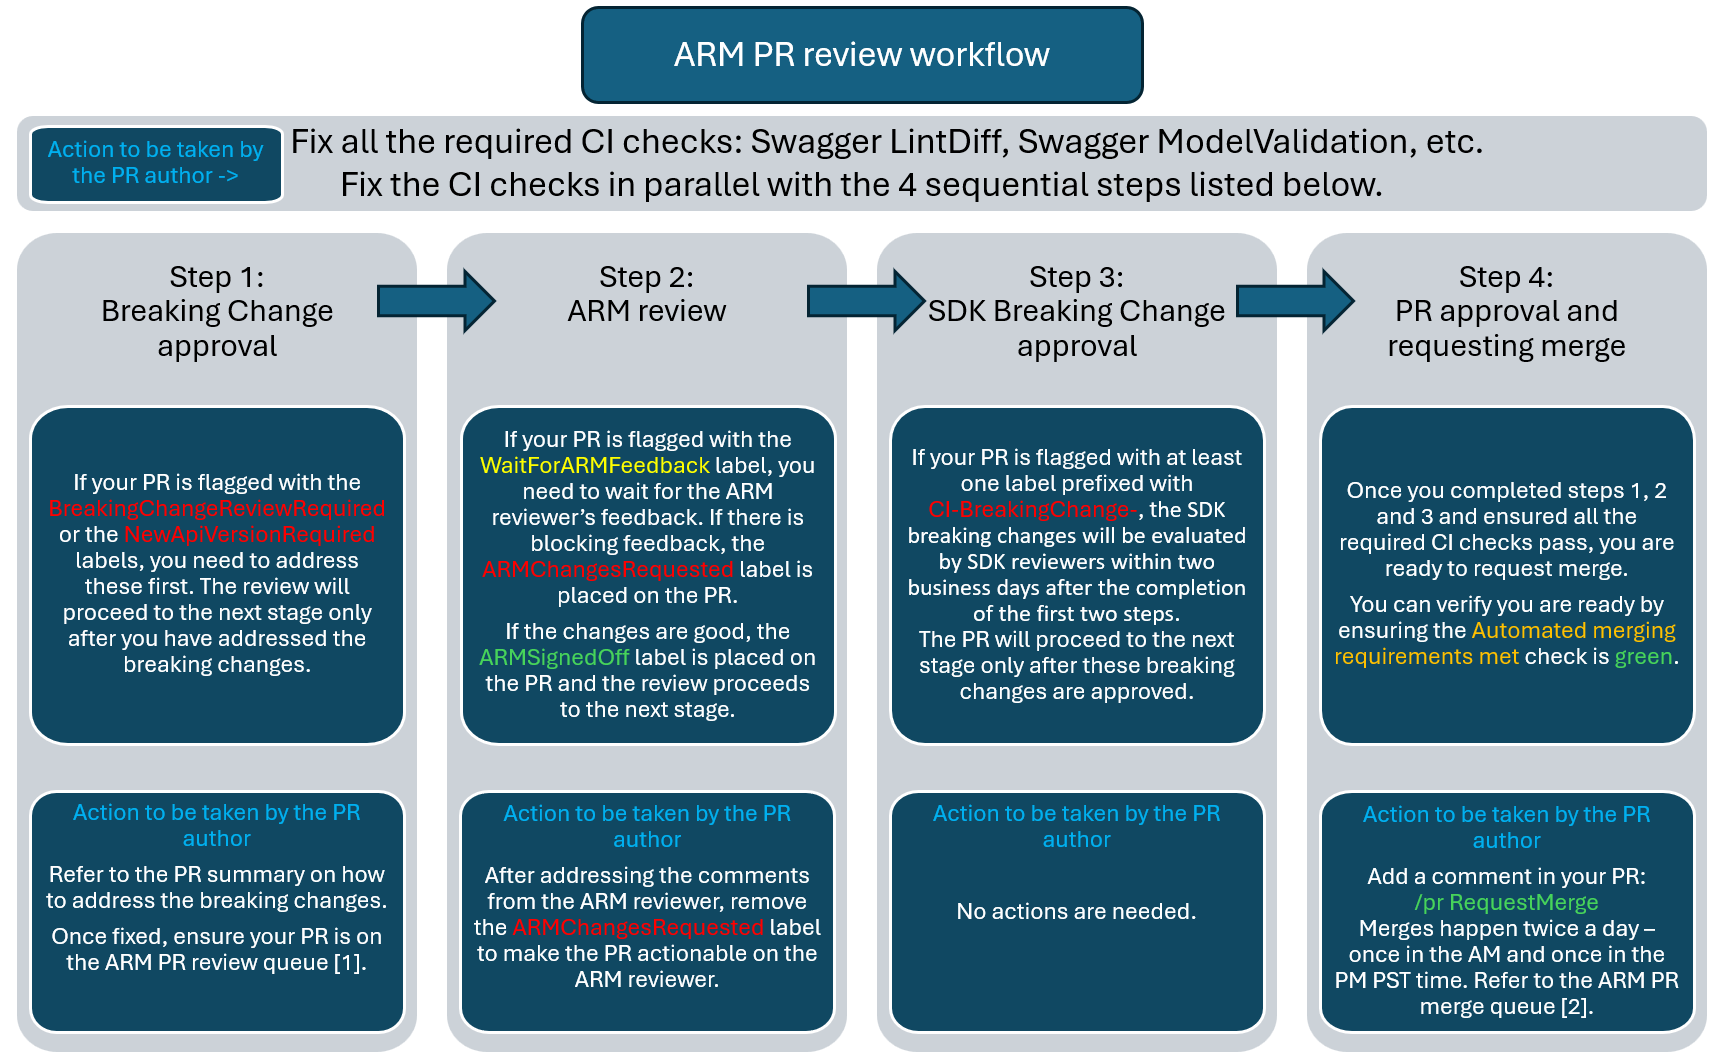
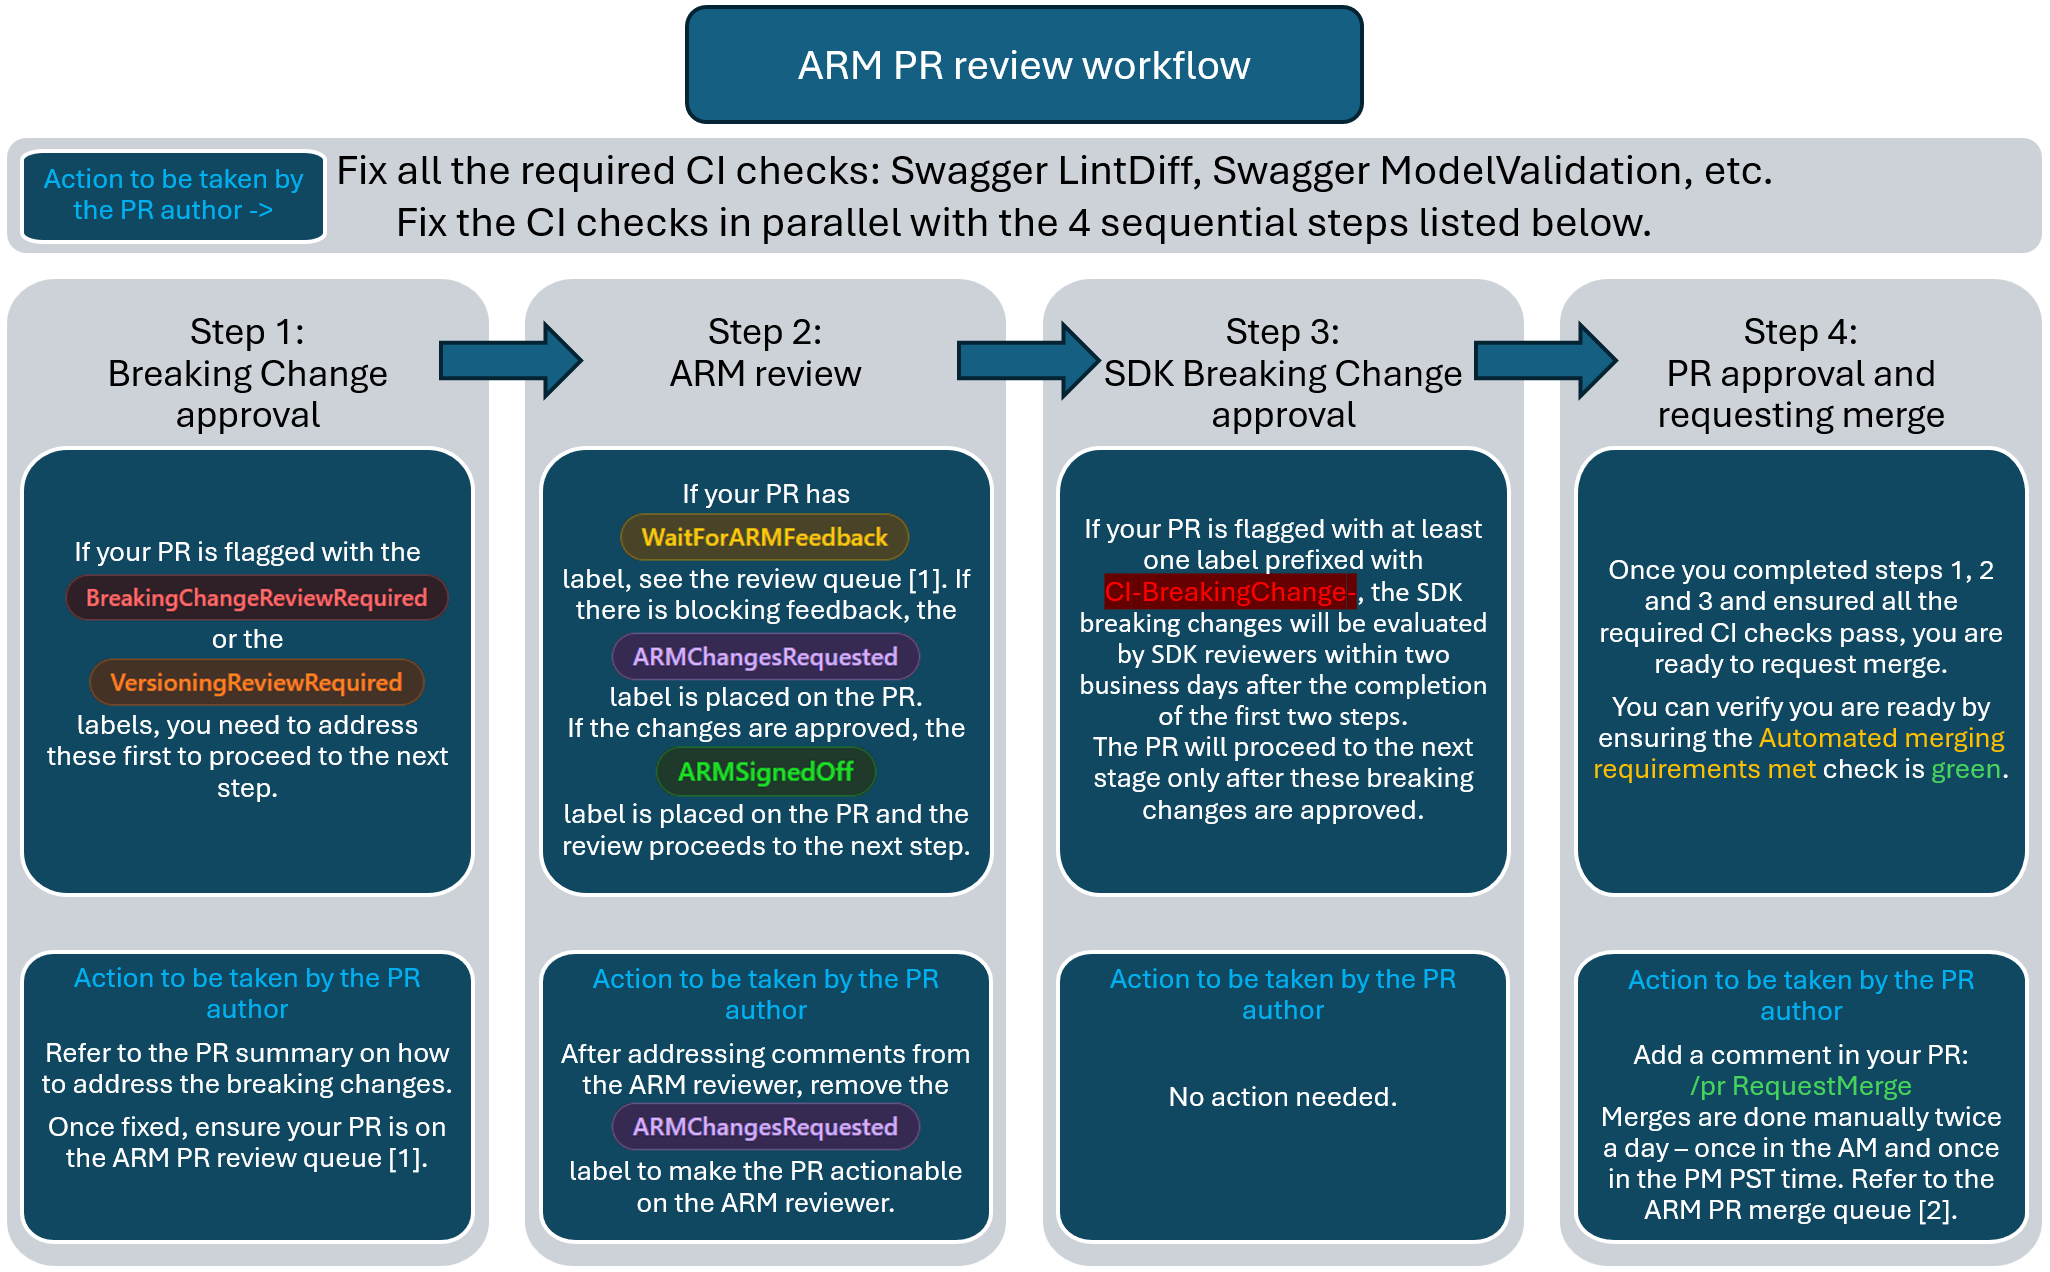
Update the ARM PR review workflow diagram: `VersioningReviewRequired` label + better contrast (#28084)
* new diagram

* update asset link

Changed region(s): [[0.0, 0.0931, 1.0, 1.0], [0.3384, 0.0, 0.6767, 0.0621], [0.3076, 0.031, 0.3384, 0.0931]]

diff --git a/.github/PULL_REQUEST_TEMPLATE/control_plane_template.md b/.github/PULL_REQUEST_TEMPLATE/control_plane_template.md
@@ -10,7 +10,7 @@
 
 Please understand this diagram before proceeding. It explains how to get your PR approved & merged.
 
-![diagram](https://github.com/Azure/azure-rest-api-specs/assets/20296335/35140fb9-639e-4e44-ac4b-38b1a20dddf9)
+![diagram](https://github.com/Azure/azure-rest-api-specs/assets/4429827/f5cdc159-40bd-42a5-8a1c-1e398a1d80fd)
 
 <details>
 <summary> Click here to see the details of Step 1 </summary>
